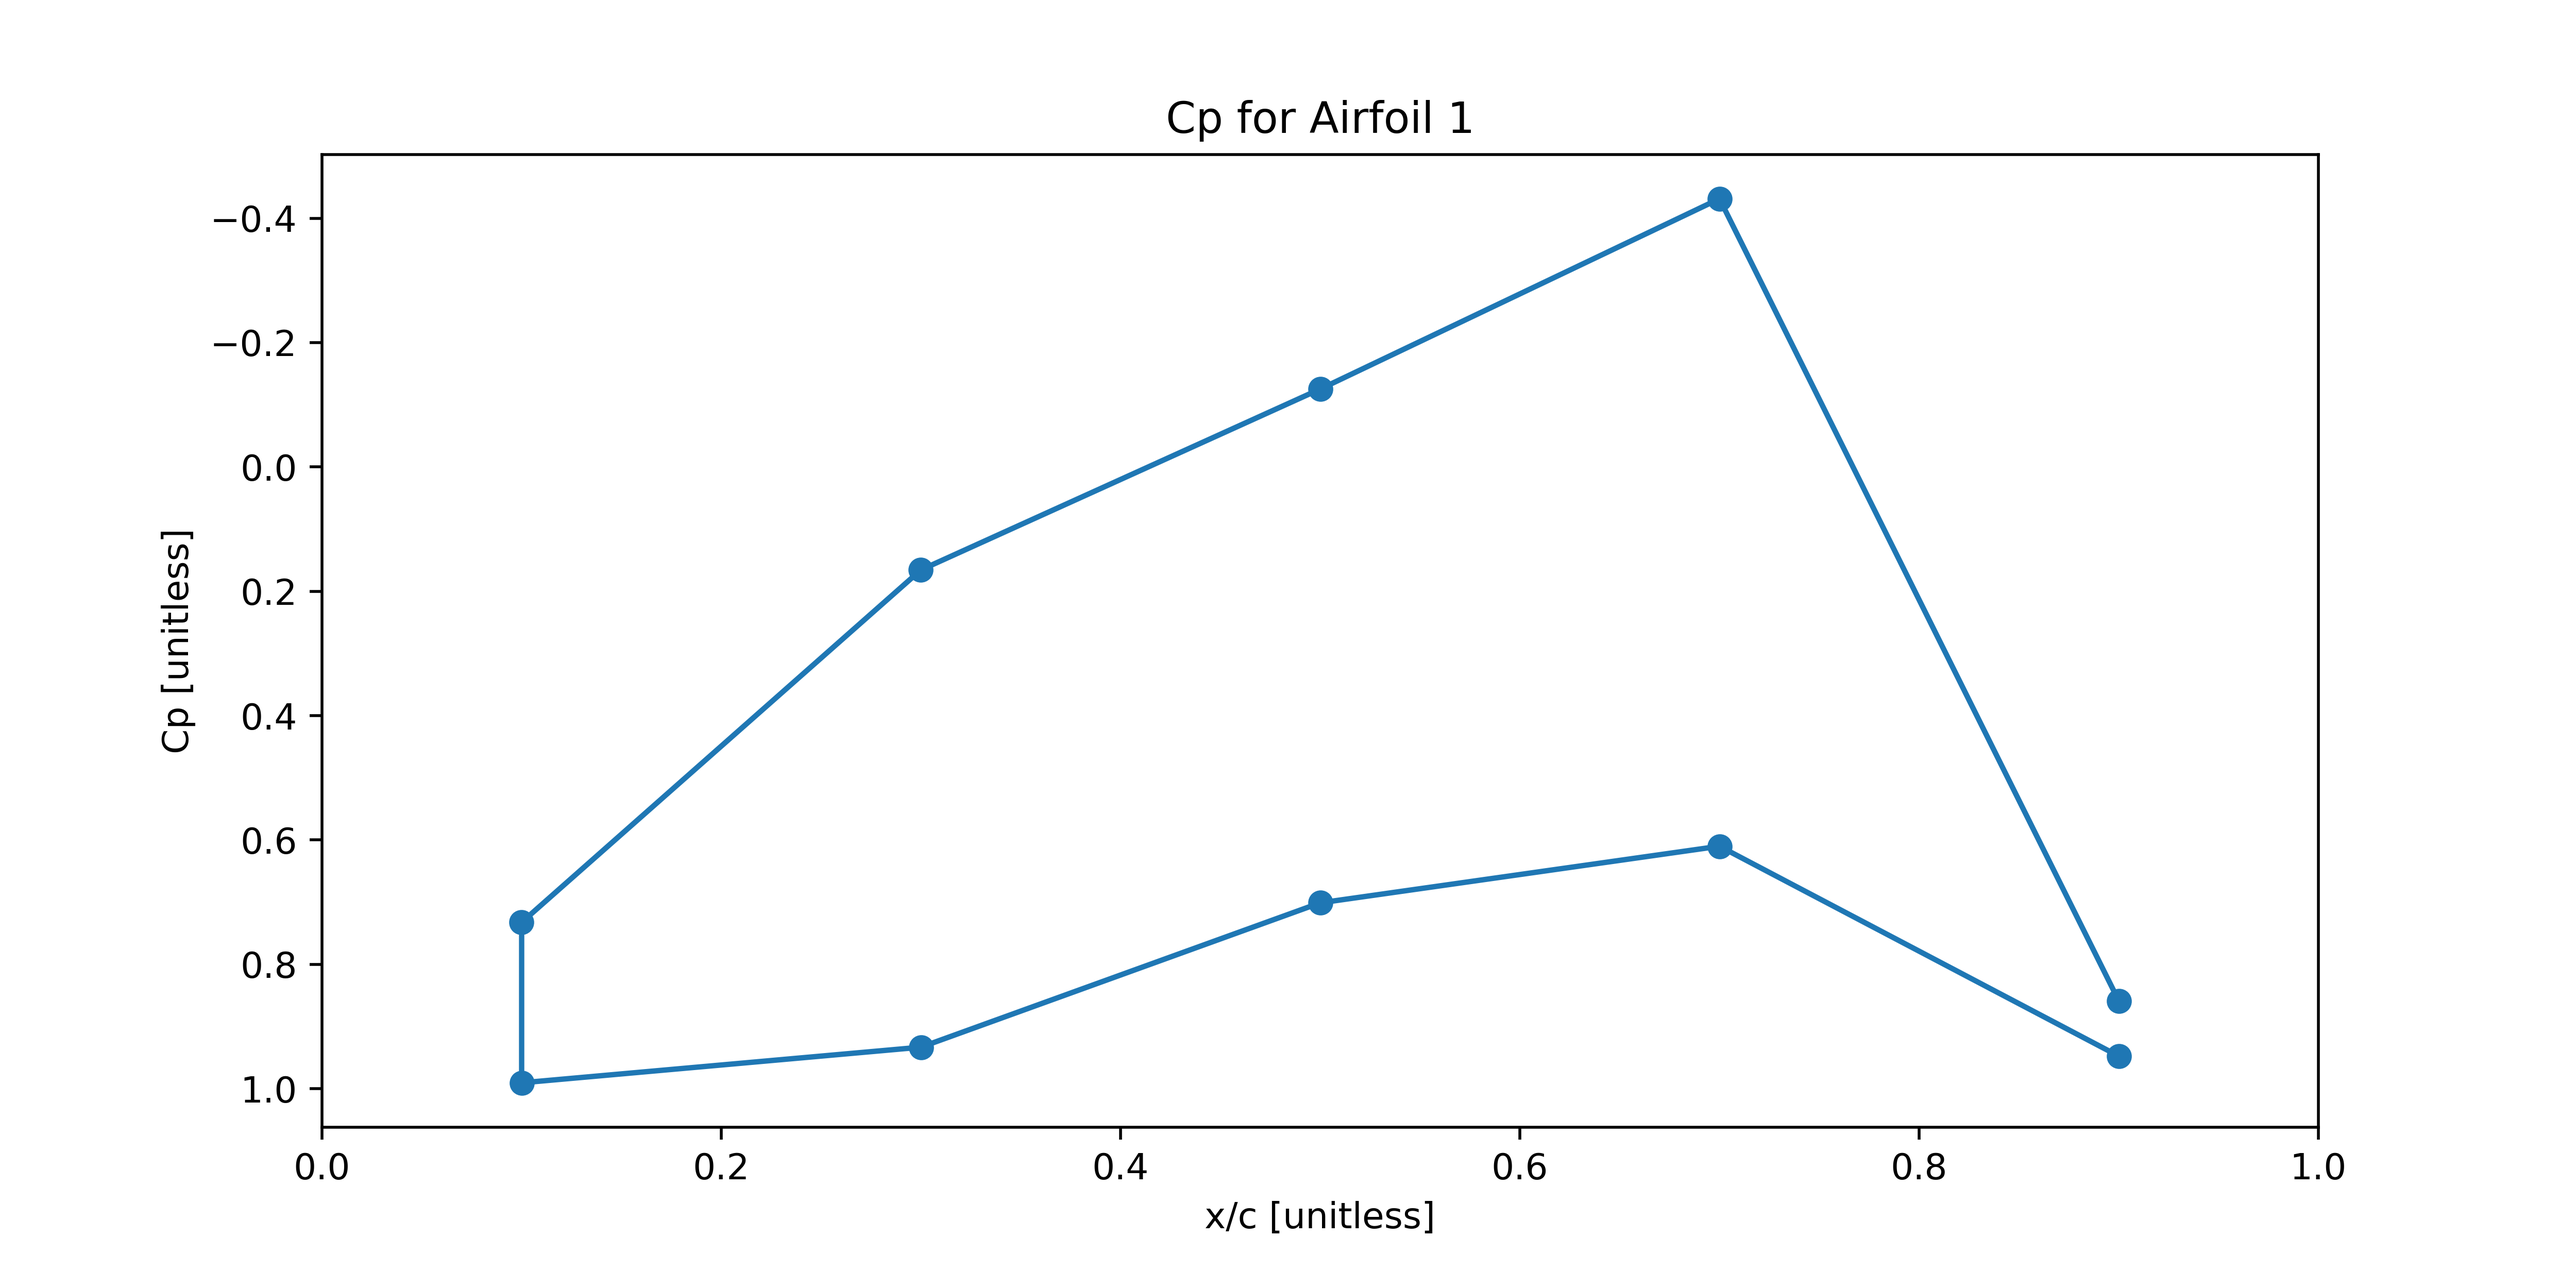
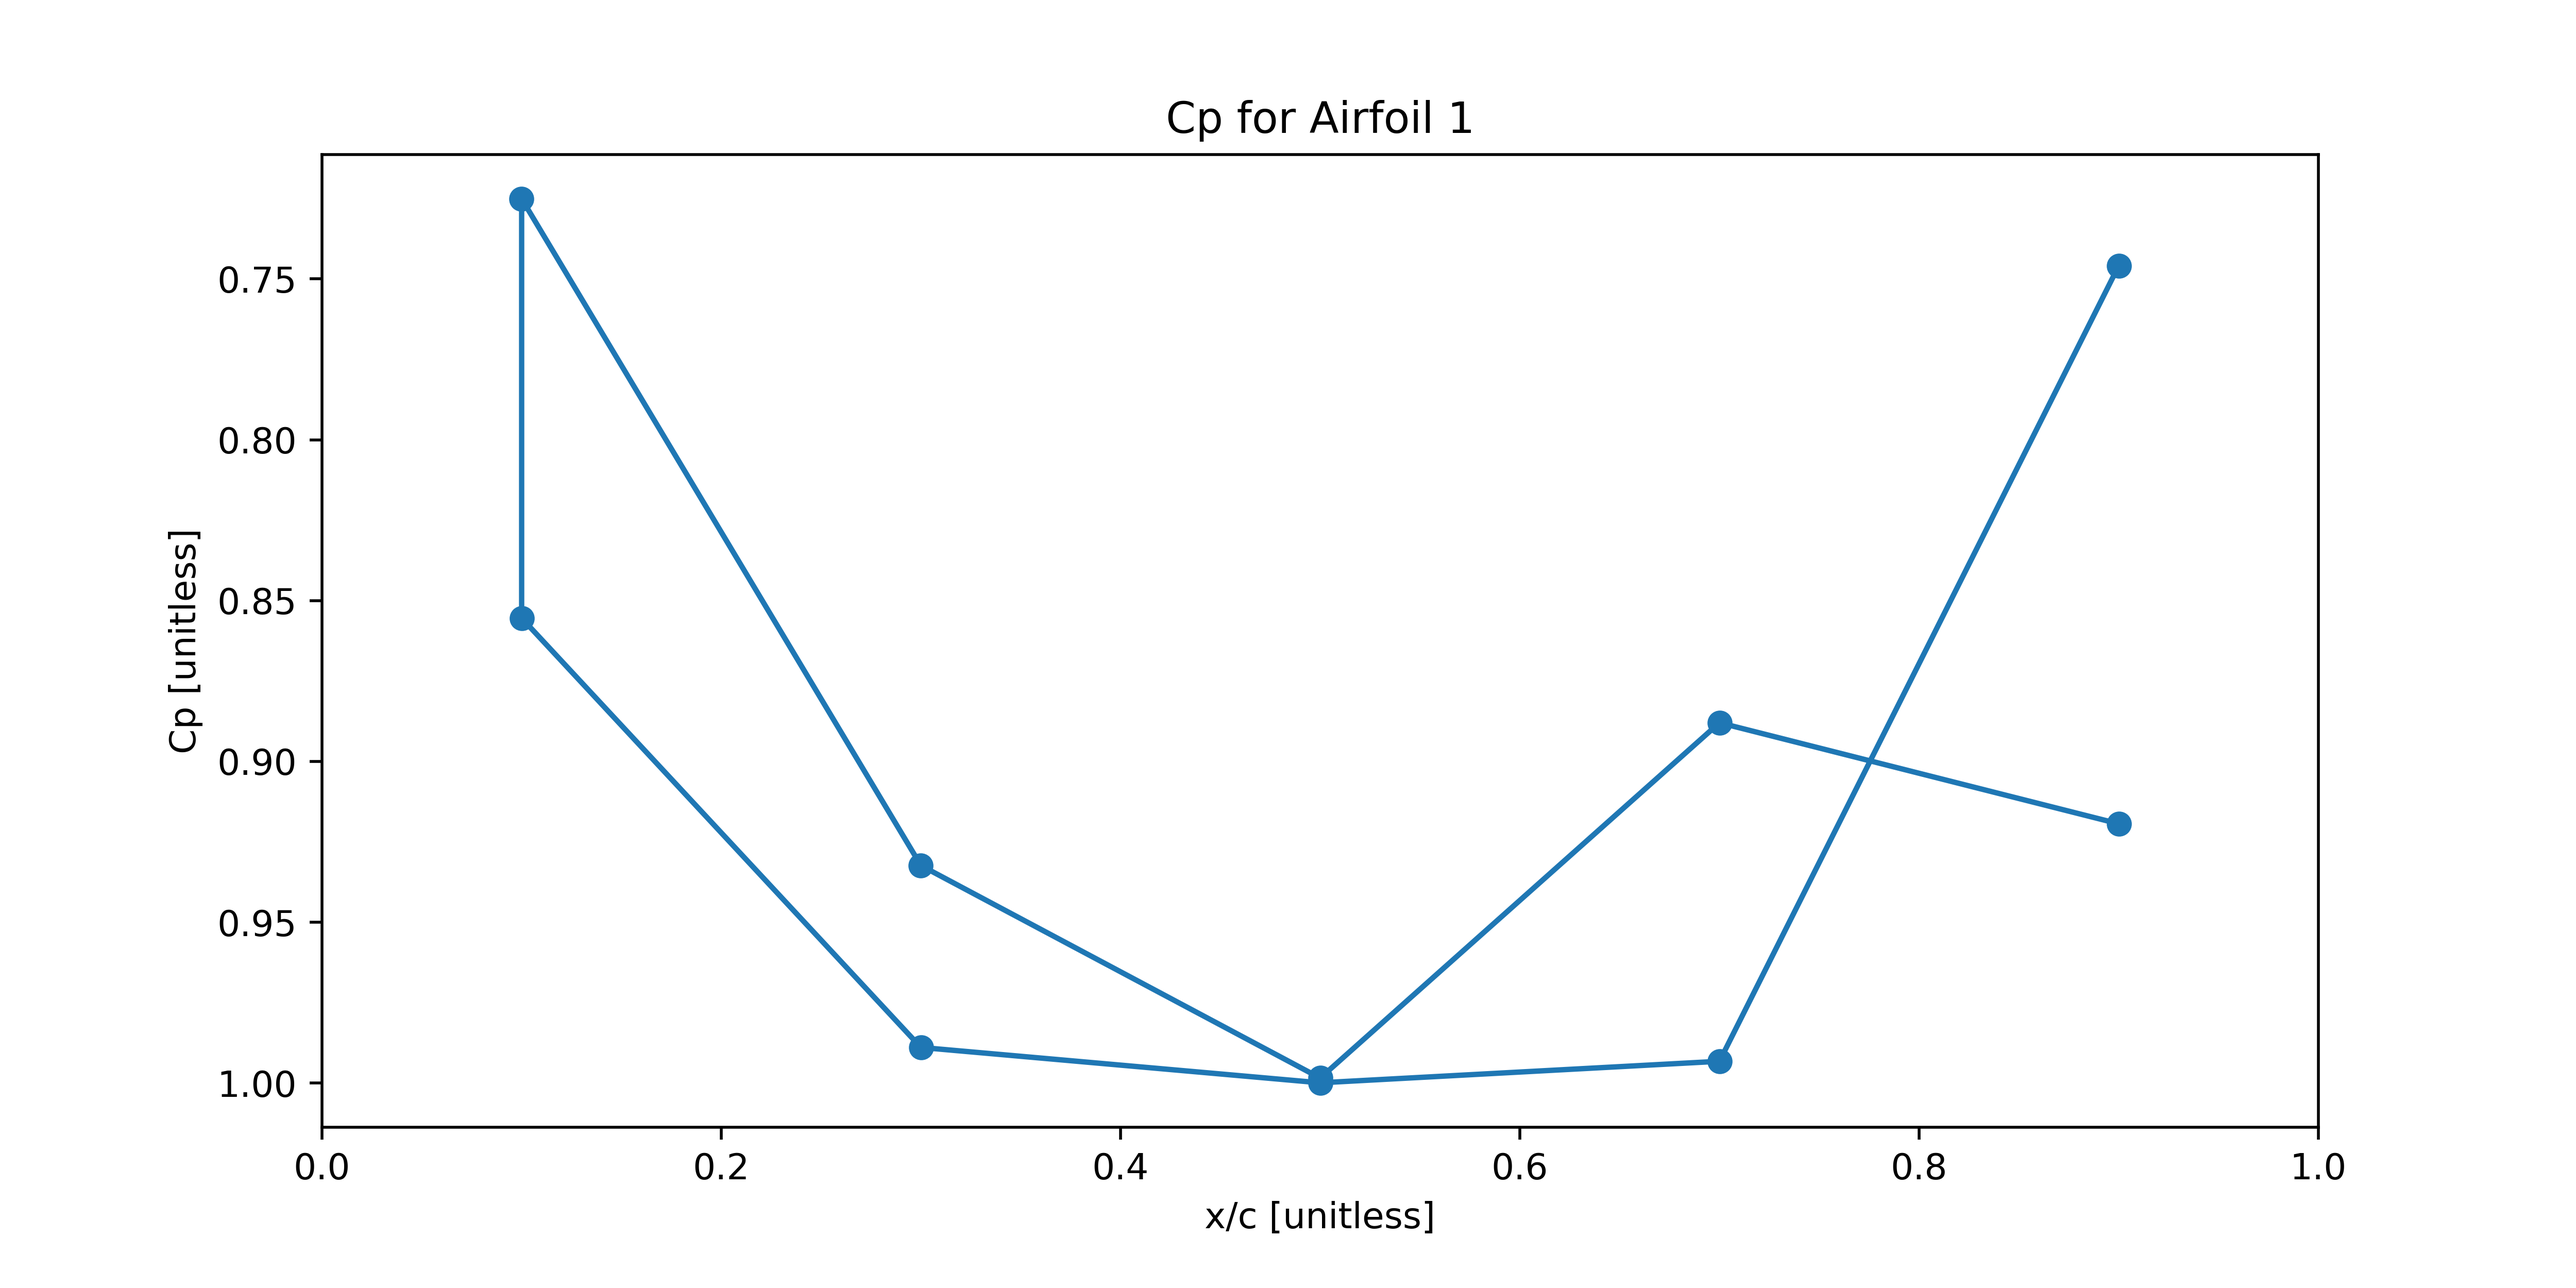
Implemented reward function

diff --git a/Vortex_Panel_Solver.py b/Vortex_Panel_Solver.py
@@ -3,7 +3,7 @@ Created on Mon Sep 28 14:23:01 2020
 
 @author: Grayson Schaer
 """
-
+from scipy.signal import find_peaks 
 import numpy as np
 import matplotlib.pyplot as plt
 
@@ -13,7 +13,6 @@ class Vortex_Panel_Solver():
         self.max_num_steps = max_num_steps
         self.curr_step = 0
         self.n_panels_per_surface = n_panels_per_surface
-        self.num_actions = 10
         self.z_dirn = np.array([np.zeros(self.n_panels_per_surface), np.zeros(self.n_panels_per_surface), np.ones(self.n_panels_per_surface)])
         self.precision = 30 # ***** MUST BE EVEN ***** #
         
@@ -366,26 +365,89 @@ class Vortex_Panel_Solver():
         plt.savefig(save_str, dpi = 500)
         plt.close()
      
-    #
-    # @param
-    # @param
-    # @param
+    # Performs the action on the airfoil and returns a reward
+    # @param action - action set in form np.array(2 * n_panels_per_surface,)
+    # @param v_inf_test_points - n freestream velocity magnitudes in form np.array([v0, v1, v2, v3, v4, ..., vn])
+    # @param alpha_test_points - n angles of attack in form np.array([a0, a1, a2, a3, a4, ..., an])
+    # @param cl_test_points - n lift coefficients in form np.array([cl0, ..., cln])
+    # @param cdp_test_points - n pressure drag coefficients in form np.array([cdp0, ..., cdpn])
+    # @param cm4c_test_points - n moment coefficients about quater chord in form np.array([cm4c0, ..., cm4cn])
     # @return the next state, reward, and whether to terminate simulator
-    def step(self, action, v_inf_test_points, alpha_test_points):
+    def step(self, action, v_inf_test_points, alpha_test_points, cl_test_points, cdp_test_points, cm4c_test_points):
         
         # Determine if simulation is complete
         self.curr_step += 1
         done = (self.curr_step == self.max_num_steps)
         
-        # If the airfoil is too spikey, return a large negative reward
-        if ():
-            return -100, s2, done
+        # Get the initial state
+        s1 = self.surface_y
         
-        # If the action moves any points outside of the acceptable range, return a large negative reward
-        elif ():
-            return -100, s2, done
+        # Perform the action set on the state
+        temp = s1[0][:-1] * action
+        s2 = np.append(temp, temp[0][0]-0.02).reshape(1,2*self.n_panels_per_surface+1)
+        
+        ####################################################### REWARD FUNCTION #######################################################
+        
+        # If the airfoil is too spikey, return a large negative reward and the original state
+        # Too spikey is defined as having more than a single peak per surface
+        y_coords_upper = (s2[0][0:self.n_panels_per_surface+1])[::-1]
+        y_coords_lower = (s2[0][self.n_panels_per_surface:2*self.n_panels_per_surface+1])
+        n_peaks_upper = np.size(find_peaks(y_coords_upper)[0])
+        n_peaks_lower = np.size(find_peaks(-1.0*y_coords_lower)[0])
+        if (n_peaks_upper > 1 or n_peaks_lower > 1):
+            return -100.0, s1, done
+        
+        # If the action moves any points outside of the acceptable range, return a large negative reward and the original state
+        # The acceptable range is any y/c between [-1.0, 1.0]
+        # The acceptable range for the TE is y/c between [-0.10,0.10]
+        elif (max(s2[0]) > 1.0 or min(s2[0]) < -1.0) or (s2[0][0] > 0.10 or s2[0][-1] < -0.10):
+            return -100.0, s1, done
+        
+        # If the lower surface every intersects the upper surface anywhere but the LE, return a large negative reward and the original state
+        elif (y_coords_upper < y_coords_lower)[1:].any():
+            return -100.0, s1, done
+        
+        # If the action is acceptable, return a reward proportional to the mean abs percent error between the new airfoil and the design parameters
+        else:
+            cl_loss = 0.0
+            cdp_loss = 0.0
+            cm4c_loss = 0.0
             
-        return 0, s2, done
+            n_test_points = np.size(v_inf_test_points)
+            for test_point in range(n_test_points):
+                
+                # Get the current velocity vector
+                v_inf = np.array([[v_inf_test_points[test_point] * np.cos(alpha_test_points[test_point])], 
+                                  [v_inf_test_points[test_point] * np.sin(alpha_test_points[test_point])], 
+                                  [0.0]])
+                
+                # Use the vortex panel method to solve for the airfoil's non-dimensional parameters
+                cl = self.solve_cl(v_inf)
+                cdp = self.solve_cdp(v_inf)
+                cm4c = self.solve_cm4c(v_inf)
+                
+                # Update the loss function
+                cl_loss += abs((cl - cl_test_points[test_point]) / cl_test_points[test_point])
+                cdp_loss += abs((cdp - cdp_test_points[test_point]) / cdp_test_points[test_point])
+                cm4c_loss += abs((cm4c - cm4c_test_points[test_point]) / cm4c_test_points[test_point])
+                
+            # Calculate the total weighted loss
+            # Adjust weights to get more tuned results
+            cl_loss = cl_loss / n_test_points
+            cdp_loss = cdp_loss / n_test_points
+            cm4c_loss = cm4c_loss / n_test_points
+            cl_loss_weight = 5.0
+            cdp_loss_weight = 2.0
+            cm4c_loss_weight = 1.0
+            total_loss = (cl_loss_weight*cl_loss + cdp_loss_weight*cdp_loss + cm4c_loss_weight*cm4c_loss)/(cl_loss_weight + cdp_loss_weight + cm4c_loss_weight)
+        
+            # Use the loss to get a reward
+            # The size of this clip determines the size of the reward return space
+            reward = 5 - np.clip(total_loss, 0.0,5.0)
+            
+            return reward, s2, done
+        
+        ####################################################### /REWARD FUNCTION ######################################################
         
         
     # Resets the environment to a random airfoil and returns the new airfoil
@@ -423,10 +485,13 @@ class Vortex_Panel_Solver():
         
 if __name__ == '__main__':
     v_inf = np.array([[100],[10],[0]])
-    solver = Vortex_Panel_Solver(100, 10)
+    solver = Vortex_Panel_Solver(100, 5)
     solver.visualize_airfoil(1)
     solver.visualize_cp(solver.solve_cp(v_inf), 1)
     cl = solver.solve_cl(v_inf)
     cdp = solver.solve_cdp(v_inf)
     cm4c = solver.solve_cm4c(v_inf)
+    action = np.random.rand(1,10)
+    solver.step(action,2,3)
+    
     
